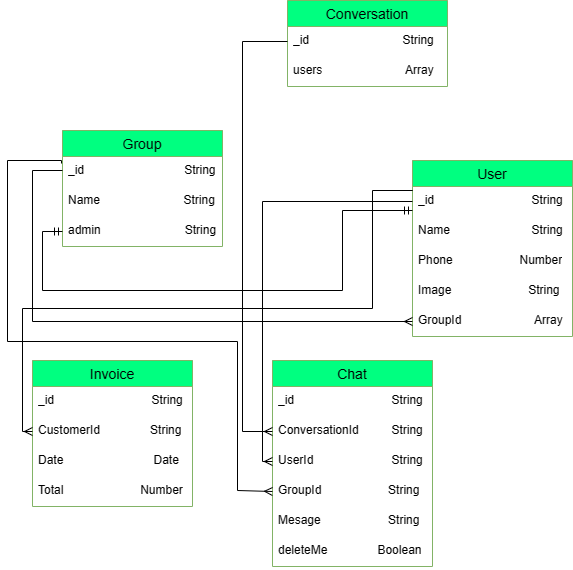
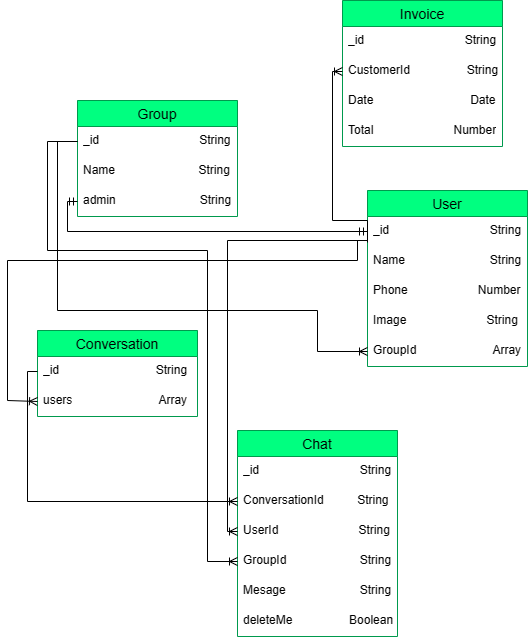
update image and chat controller

diff --git a/controller/ChatController.js b/controller/ChatController.js
@@ -1,5 +1,4 @@
 const Chat = require('../database/model/ChatSchema');
-const Group = require("../database/model/GroupSchema");
 const Conversation = require("../database/model/ConversationSchema");
 
 module.exports.getChat = async (req, res) => {
@@ -40,10 +39,10 @@ module.exports.createChatUserToUser = async (req, res) => {
         }
 
         let chat = new Chat({
-            conversationId: conversations.id,
+            conversationId: conversations._id,
             userId: req.body.userId,
             message: req.body.message,
-            onDelete: 0
+            deleteMe: 0
         })
 
         await chat.save();
@@ -73,7 +72,7 @@ module.exports.createChatGroup = async (req, res) => {
             userId: req.body.userId,
             groupId: req.query.group,
             message: req.body.message,
-            onDelete: 0
+            deleteMe: 0
         })
 
         await newChat.save();
